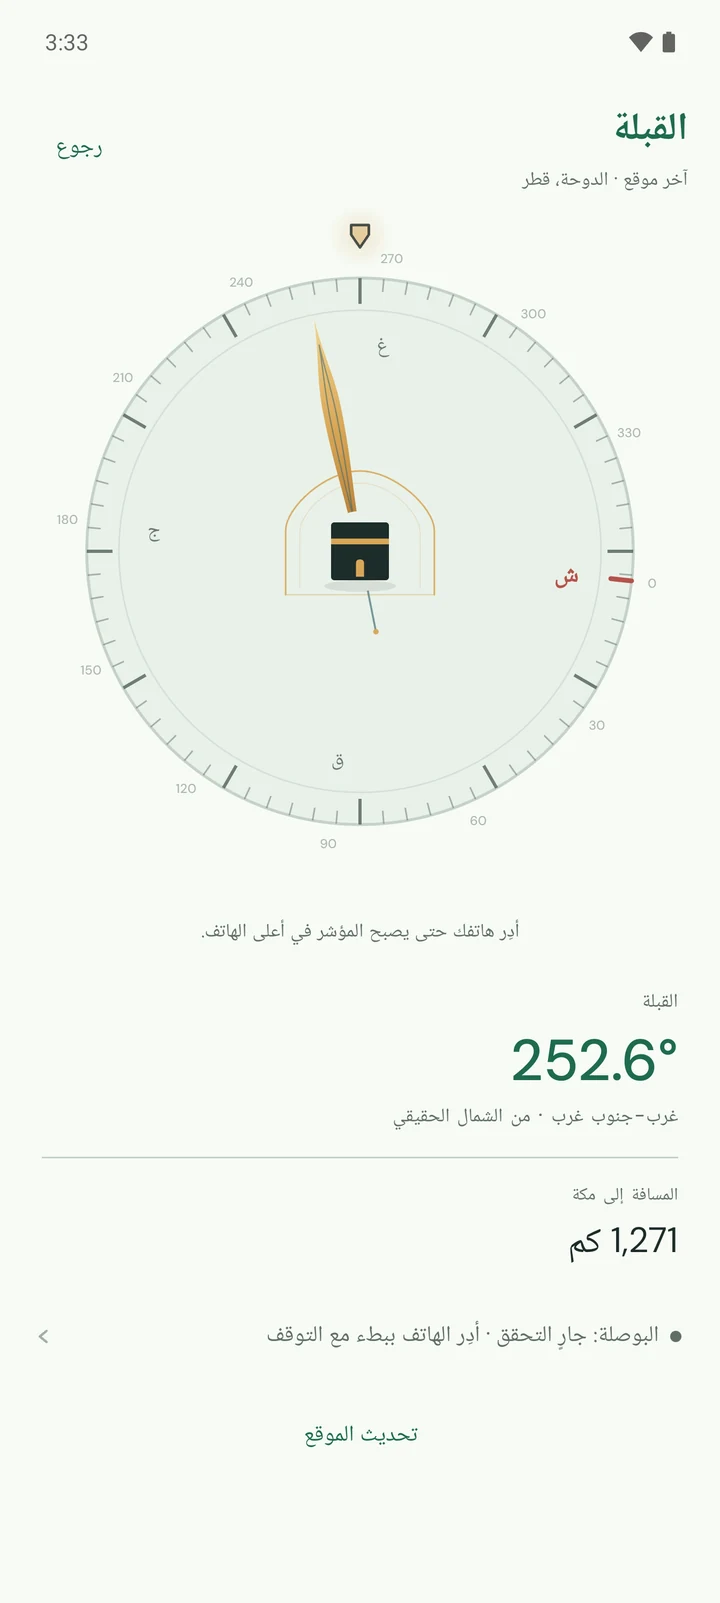
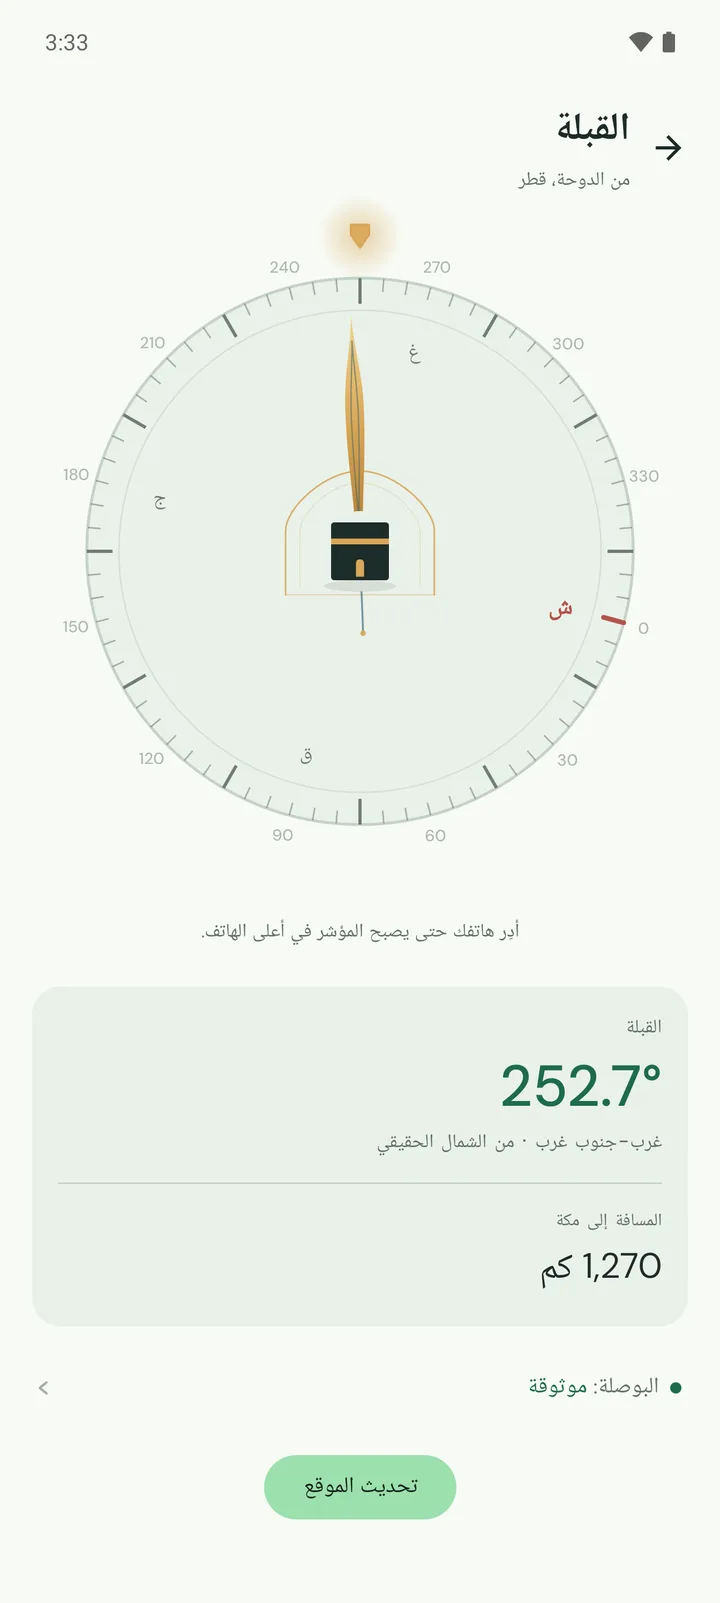
Recapture the phone mocks and social card from v0.27.0 in the Munadi theme
The social card now says the Gulf and beyond, and Arabic, English and Urdu. The README notes how to pass the Qibla compass check on the emulator and where the card's phone screen sits.

diff --git a/README.md b/README.md
@@ -65,11 +65,20 @@ Files in `src/assets/screenshots/`: `home-light.webp`, `home-ar.webp`, `qibla.we
    `-e fully true`, no mobile, battery 100 and not charging, notifications hidden.
    Exit demo mode afterwards.
 4. Take the shots with `adb exec-out screencap -p`: Home, then Qibla, in English and
-   in Arabic.
-5. Keep the full 1344x2992 frame. Paint out the gesture handle by filling the bottom
+   in Arabic. For Qibla, grant location (`adb shell pm grant app.munadi
+   android.permission.ACCESS_COARSE_LOCATION`) and set `adb emu geo fix 51.531 25.286`.
+   Lay the phone flat (`adb emu sensor set acceleration 0:0:9.81`) and turn it by setting
+   `magnetic-field` to a few headings well apart, resting a few seconds on each, so the
+   compass check passes. End on `32.10:-13.96:-30`, which points the needle straight up
+   with the glow on.
+5. The social card (`public/og.png`, 1200x630) has no source file. Its phone screen is
+   x 847–1124, y 43–602 with 25px corners; the Home shot fits it at 0.1987 scale, cropped
+   below the status bar. Bump `?v=` on `ogImage` in `src/layouts/Base.astro` after
+   changing it.
+6. Keep the full 1344x2992 frame. Paint out the gesture handle by filling the bottom
    rows (y from 2900, x from 380 to 964) with the background colour sampled at x=40
    on each row, then resize to 720x1603 and save as WebP (quality about 82).
-6. Check at about 375px wide, in Arabic too, that the time and battery clear the
+7. Check at about 375px wide, in Arabic too, that the time and battery clear the
    rounded corners.
 
 The frame (`.phone` in `src/styles/global.css`) is sized by the 720/1603 ratio and
